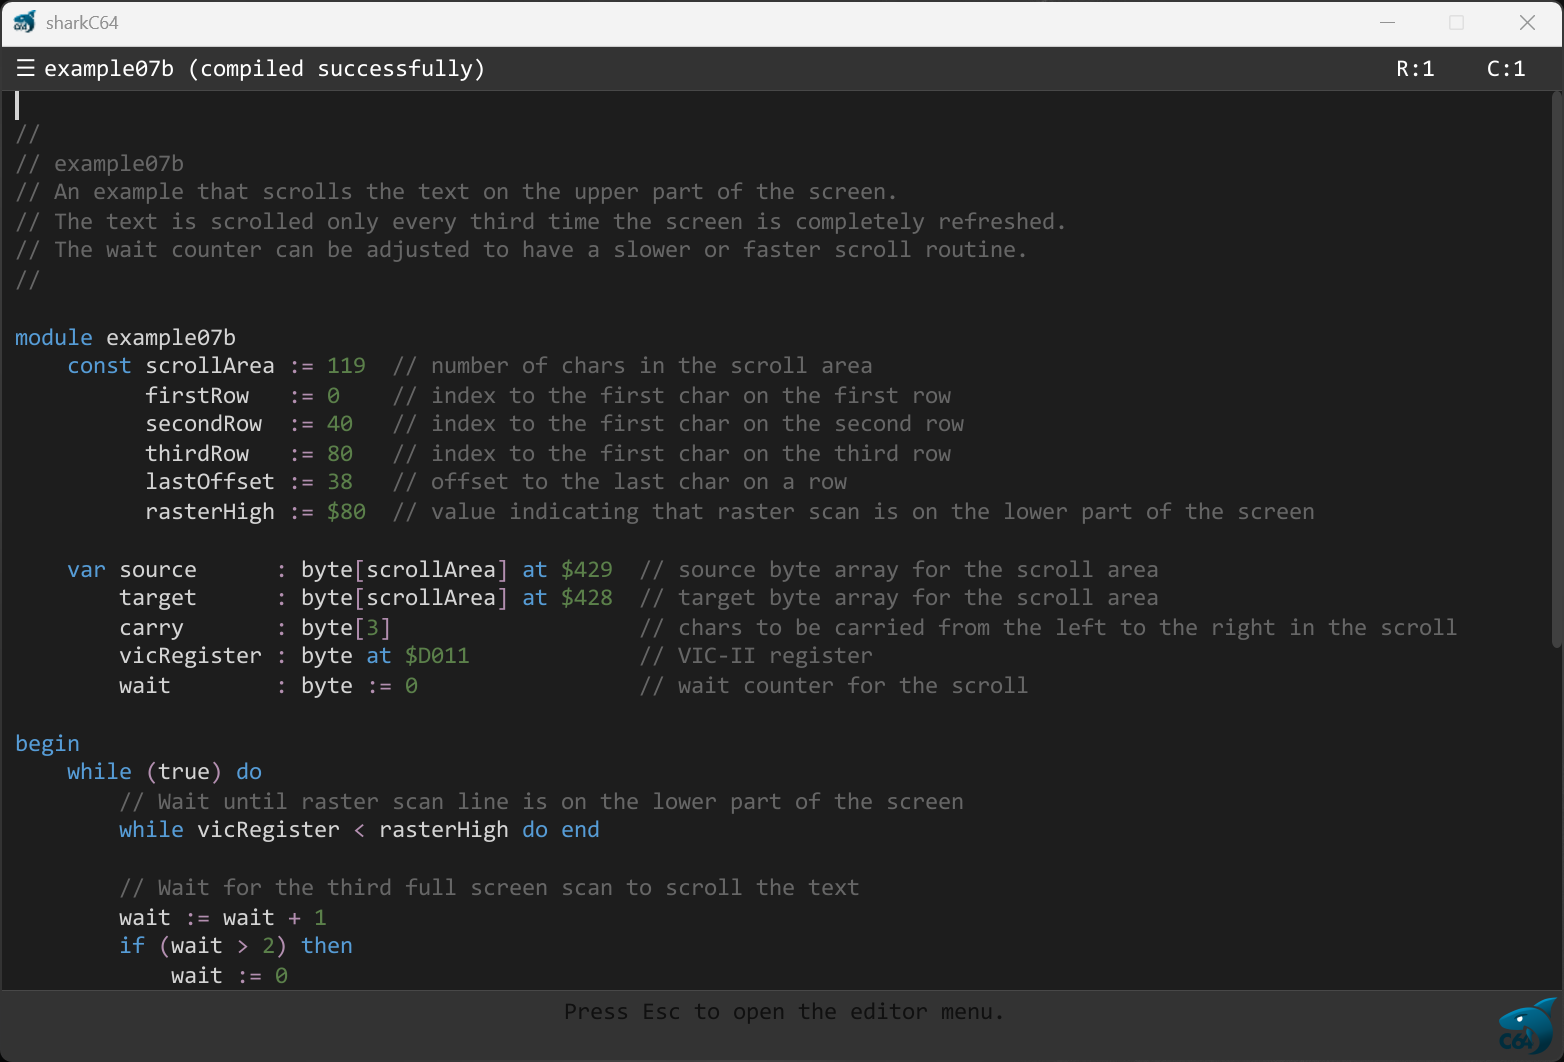
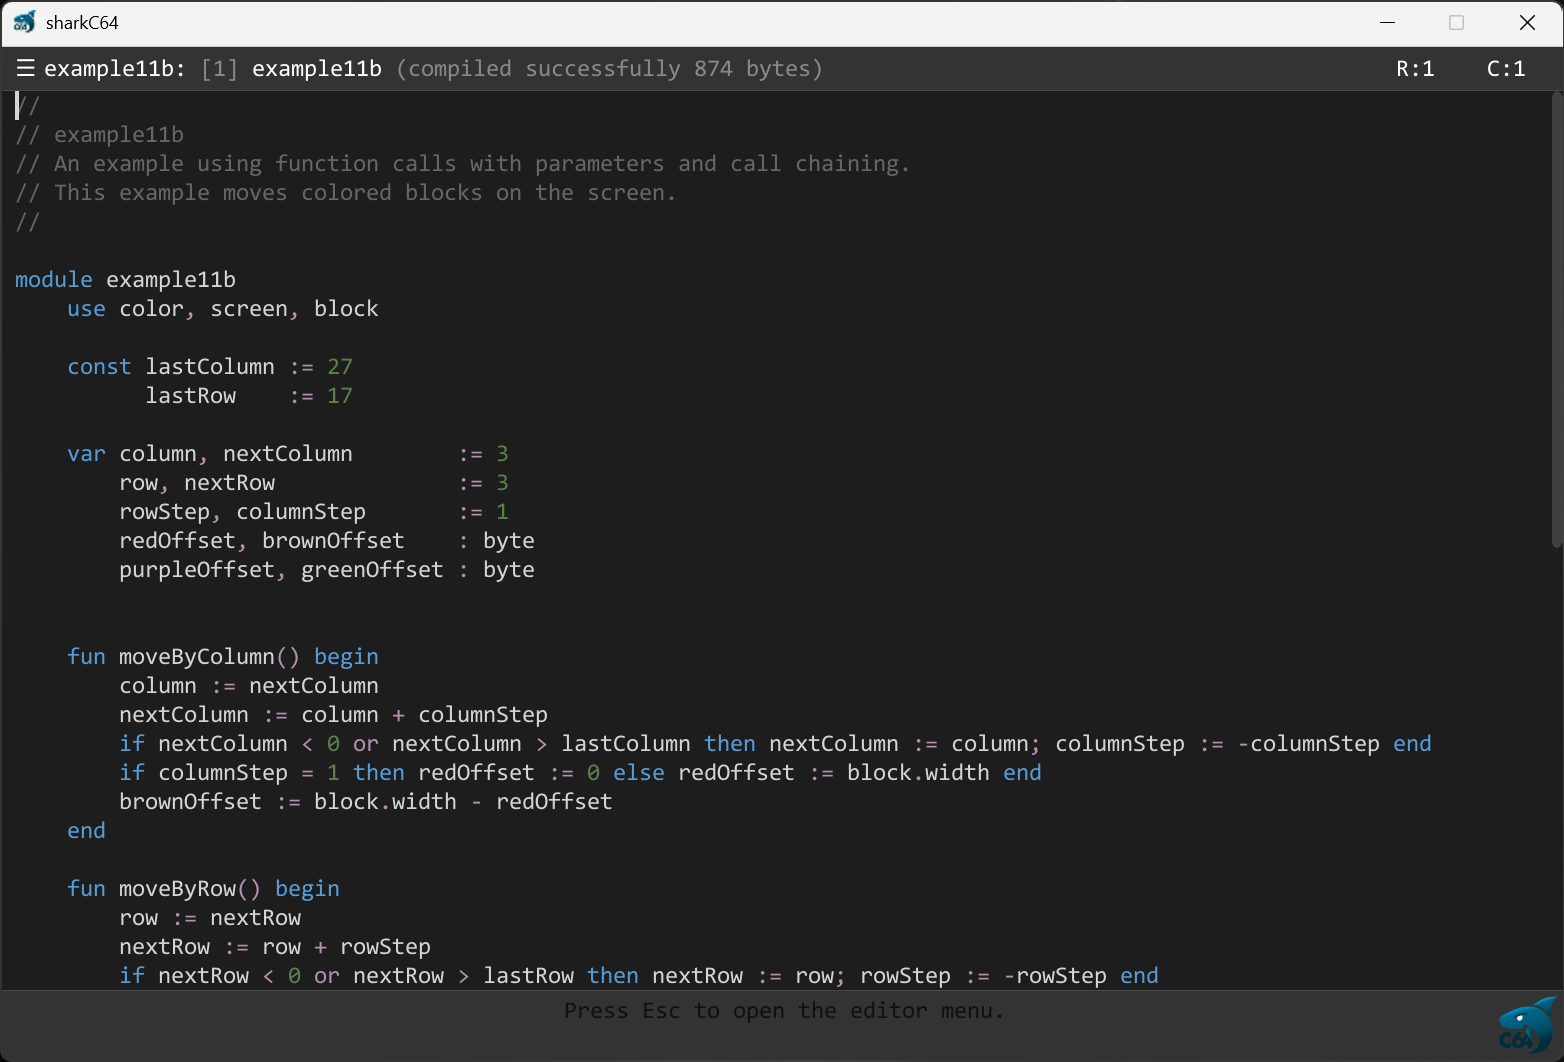
version 0.11.2

diff --git a/docs/ide/editing.md b/docs/ide/editing.md
@@ -9,6 +9,12 @@ It will open an edit view.
 
 ![Edit view](../images/edit-view.png)
 
+The header row shows a hamburger icon, the name of the project, the name of the opened module,
+the current status and the cursor location. The number before the name of the module
+indicates the index of the module among already opened modules.
+Yes, the sharkC64 development environment supports now multiple open modules!
+More on that later.
+
 The editor menu can be accessed by clicking the hamburger icon next to the module name
 on the top left screen corner. The editor menu opens directly on top of the hamburger icon.
 All the actions in the menu can be accessed by using keyboard shortcuts. 
@@ -24,6 +30,7 @@ Here is a list of the editor menu actions:
 |:----------------------------------------|:----------------------------|-------------------|-------------------------|
 | Create new module                       | Module.. > New..            | ctrl + n          | command + n             |
 | Open a module                           | Module.. > Open..           | ctrl + o          | command + o             |
+| Switch to an already opened module      | Module.. > Switch..         | shift + ctrl + o  |                         |
 | Save edited module                      | Module.. > Save             | ctrl + s          | command + s             |
 | Close editor view (back to home screen) | Module.. > Close            | ctrl + w          | command + w             |
 | <br>                                    |                             |                   |                         |
@@ -53,6 +60,27 @@ Here is a list of the editor menu actions:
 Note that compiling in the editor view is literally just the compilation action.
 It will not produce any executable prg file. 
 To produce an executable prg file and to run it, select build and run module from the menu. 
+
+## Switching between opened modules
+The sharkC64 development environment supports now multiple open modules.
+You can see a list of all the opened modules by selecting the "Switch.." item from the
+"Module.." menu. Alternatively, you can open that list just by clicking shift+ctrl+o
+(or shift+cmd+o with a mac).
+The list of all the opened modules looks something like this.
+
+![Editor switch menu](../images/editor-switch.png)
+
+If the list does not contain the module that you wish to open, you can click the
+"(other..)" item. That will open a dialog for opening any existing module.
+As the list of opened module shows, the first five modules can also be accessed
+with a shortcut key ctrl-1 through ctrl-5 (or cmd-1 through cmd-5 with a mac).
+The shortcut key works directly in the editor without a need to open any intermediate
+dialogs. It makes it fast and clutter-free to switch between modules. 
+
+Note that, when switching, the find and replace actions carry the find and replace
+patterns from one module to the other. This means, for instance, that replacing
+text across modules is easier. Still, one has to actively switch from one
+module to another - the find and replace actions do not switch the modules.
 
 To read more about the programming language and its syntax, see the language [index](../index.md) .
 

diff --git a/docs/language/syntax.md b/docs/language/syntax.md
@@ -92,7 +92,7 @@ The syntax of the sharkC64 language is as follows
 <var-name>              ::= <name>                                              (15)
 <1d-array-name>         ::= <name>                                              (16)
 <2d-array-name>         ::= <name>                                              (17)
-<function-name>         ::= <name>                                              (18)
+<function-name>         ::= <name> | "." <LABEL>                                (18)
 <name>                  ::= <LABEL> ["." <LABEL>] 
 
     
@@ -120,7 +120,7 @@ The syntax of the sharkC64 language is as follows
 15. `<name>` must denote a variable; not an array.
 16. `<name>` must denote a one dimensional array.
 17. `<name>` must denote a two-dimensional array.
-18. `<name>` must denote a function.
+18. `<name>` or a chained `<LABEL>` must denote a function 
 19. Context may limit possible `<LABEL>` values. For instance, in variable declaration,  
     each `<LABEL>` must be unique within the defining scope. Also, a `<LABEL>` denoting a variable
     in an expression must refer to a variable that matches with the contextual type. 

diff --git a/docs/roadmap/history.md b/docs/roadmap/history.md
@@ -1,5 +1,13 @@
 # Release history
 
+### Version 0.11.2 published in June 15, 2025
+- added action for going back to home screen from editor without losing editing state
+- added support for having multiple open modules
+- added quick switching between open modules
+- improved more scrolling with touchpad
+- improved array element type checking
+- improved translation of expressions with nested array elements
+
 ### Version 0.11.1 published in May 25, 2025
 - added typed parameters to functions
 - added function call chaining

diff --git a/docs/roadmap/future.md b/docs/roadmap/future.md
@@ -1,10 +1,10 @@
 # Future plans
 
 ### Next release
-- IDE improvement: Add support for multiple open modules 
+- Function return values 
 
 ### Backlog
-- Improvements to functions
+- Usability testing
 - More data types
 - Computational operators including multiplication and division
 - Support for floating point values
